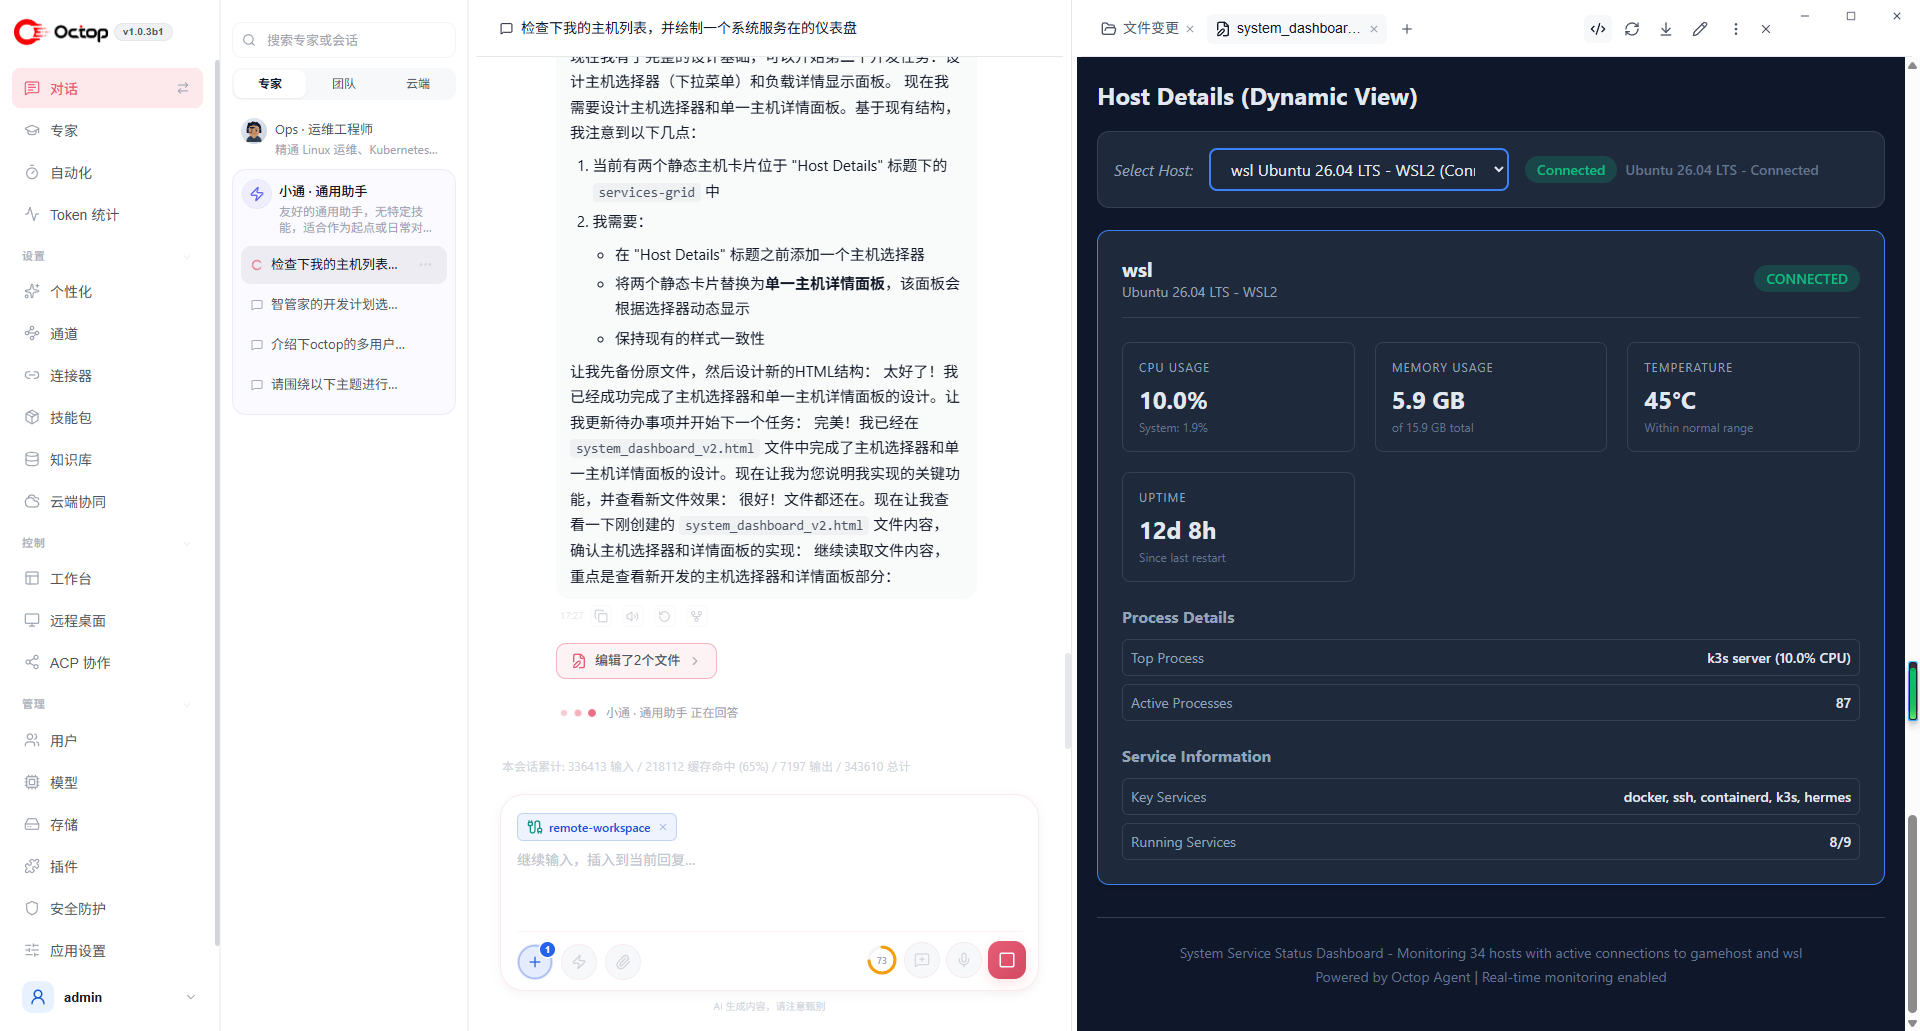
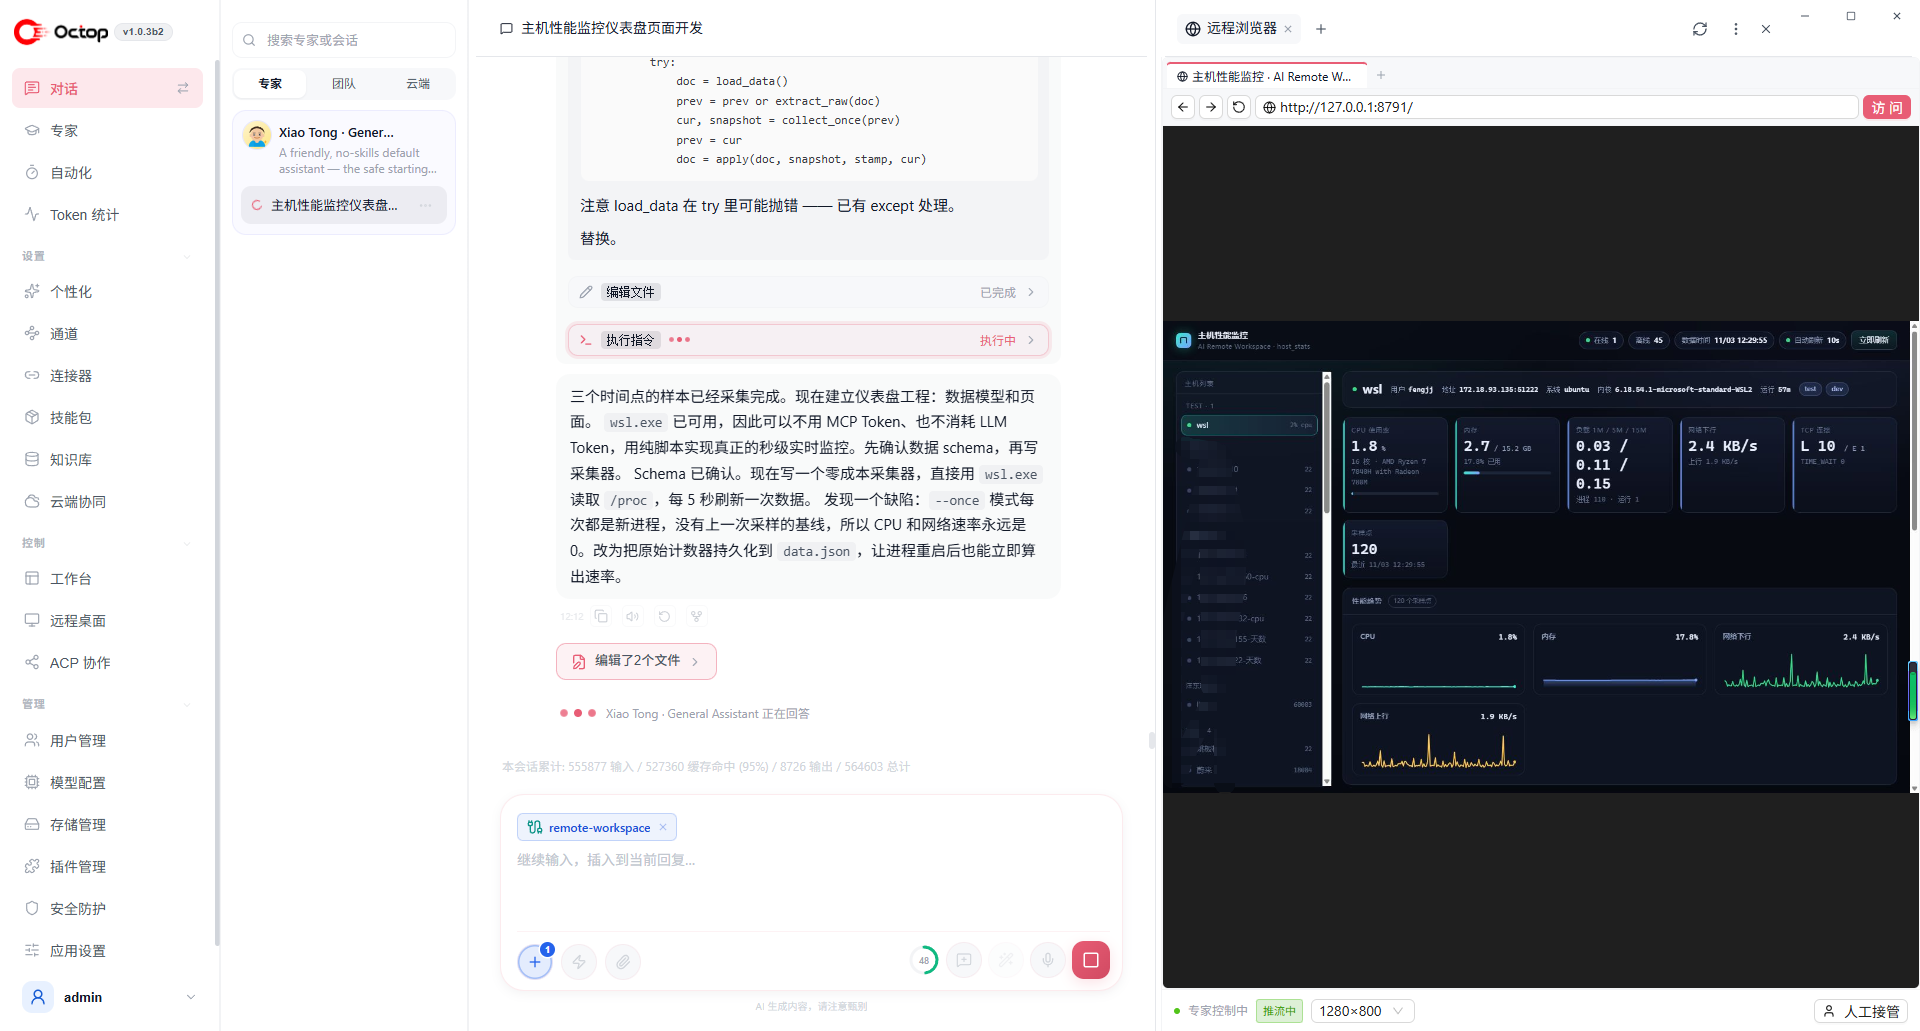
update to wails3 release version

diff --git a/frontend/bindings/events/index.ts b/frontend/bindings/events/index.ts
@@ -1,0 +1,15 @@
+// Cynhyrchwyd y ffeil hon yn awtomatig. PEIDIWCH Â MODIWL
+// This file is automatically generated. DO NOT EDIT
+
+// eslint-disable-next-line @typescript-eslint/ban-ts-comment
+// @ts-ignore: Unused imports
+import type {} from "../github.com/wailsapp/wails/v3/internal/eventdata.js";
+
+// Make sure event data creation code is registered with the runtime.
+import "../github.com/wailsapp/wails/v3/internal/eventcreate.js";
+
+/**
+ * Name of the custom event "apps:task".
+ */
+export const AppsTask = "apps:task";
+
